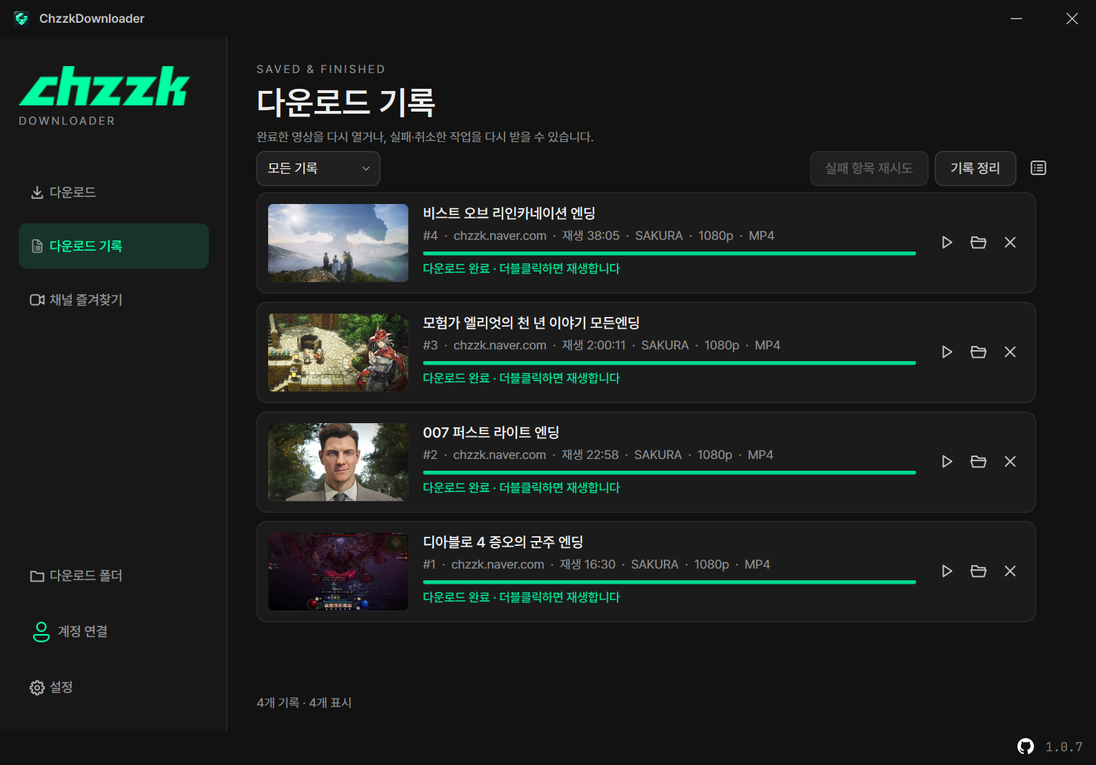
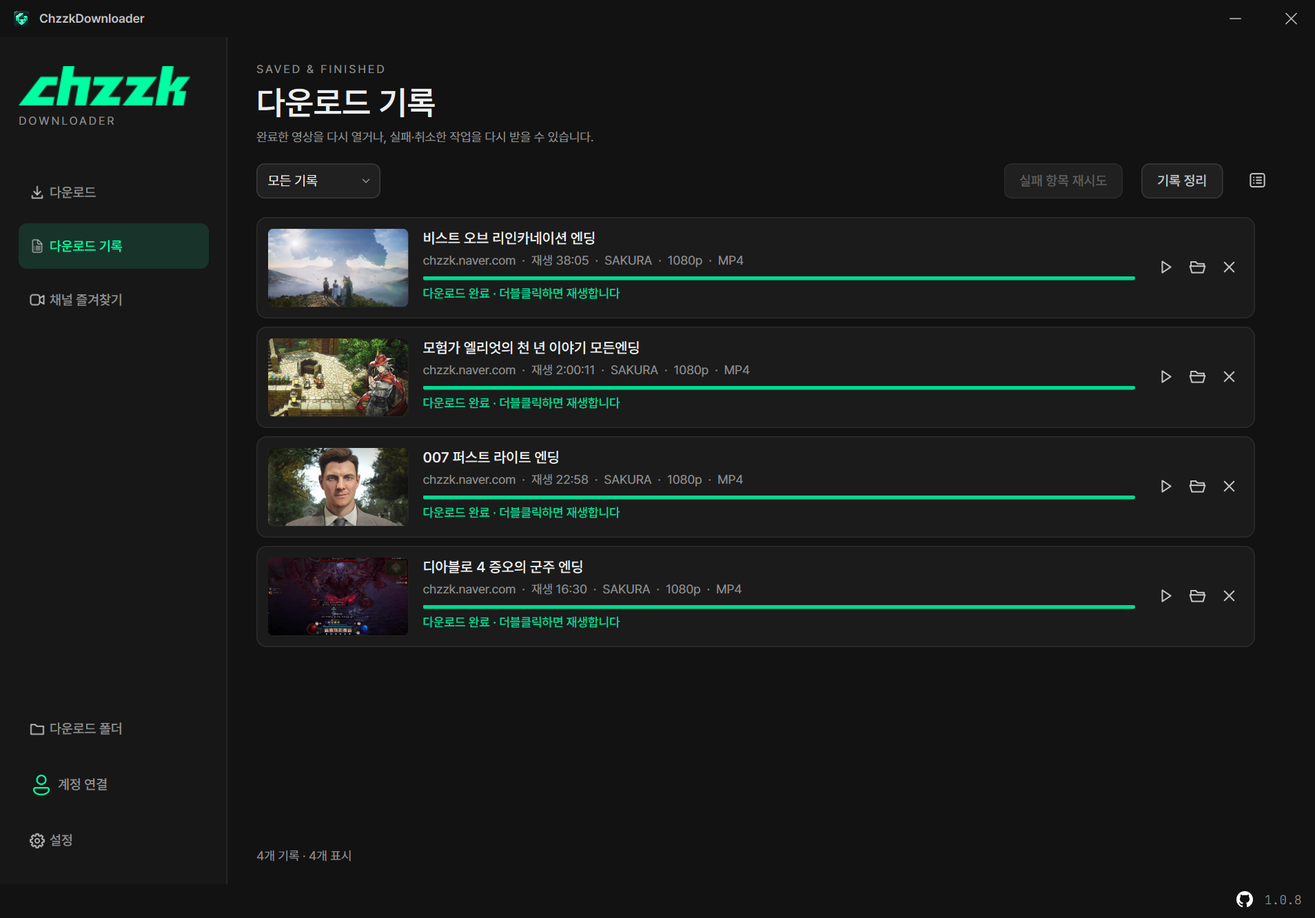
Release 1.0.8 (2026-11-03) 메인 창 확대·새 영상 확인 간격·글로벌 CDN(베타) 및 안정화

diff --git a/docs/index.html b/docs/index.html
@@ -4,7 +4,7 @@
   <meta charset="utf-8">
   <meta name="viewport" content="width=device-width, initial-scale=1">
   <meta name="theme-color" content="#101412">
-  <meta name="description" content="ChzzkDownloader 1.0.7 — 여러 사이트의 영상 다운로드·이어받기, 라이브 녹화, 치지직 다시보기 채팅 저장, 구간 다운로드와 채널 새 영상 알림을 제공하는 Windows 다운로더.">
+  <meta name="description" content="ChzzkDownloader 1.0.8 — 여러 사이트의 영상 다운로드·이어받기, 라이브 녹화, 치지직 다시보기 채팅 저장, 구간 다운로드와 채널 새 영상 알림을 제공하는 Windows 다운로더.">
   <title>ChzzkDownloader — 다시 보고 싶은 순간을, 내 폴더에</title>
   <link rel="icon" href="img/logo.svg" type="image/svg+xml">
   <link rel="stylesheet" href="style.css">
@@ -25,15 +25,15 @@
         <h1>다시 보고 싶은 순간을,<br><em>내 폴더에.</em></h1>
         <p class="lead">긴 다시보기도, 짧은 클립도.<br>링크를 붙여넣으면 나만의 영상 라이브러리가 시작됩니다.</p>
         <div class="hero-actions"><a class="button primary" href="https://github.com/deuxdoom/ChzzkDownloader/releases/latest" data-download><span class="github-icon" aria-hidden="true"></span>다운로드(.zip) <span aria-hidden="true">↓</span></a><a class="button secondary" href="#preview">화면 살펴보기 <span aria-hidden="true">↘</span></a></div>
-        <p class="availability">Windows 데스크톱 · 1.0.7 · 폴더형 포터블 앱</p>
-        <p class="release-note"><code>ChzzkDownloader_v107.zip</code> · 2026-11-02 · 이어받기·라이브 녹화·다시보기 채팅 저장·구간 다운로드, 파일 이름·속도 제한과 채널 새 영상 확인을 추가했습니다. <a href="https://github.com/deuxdoom/ChzzkDownloader/releases/tag/1.0.7">1.0.7 새 소식 ↗</a></p>
+        <p class="availability">Windows 데스크톱 · 1.0.8 · 폴더형 포터블 앱</p>
+        <p class="release-note"><code>ChzzkDownloader_v108.zip</code> · 2026-11-03 · 메인 창을 넓히고 새 영상 확인 간격을 1~24시간으로 정할 수 있게 했으며, 라이브 녹화용 글로벌 CDN(베타) 선택과 취소 오조작 방지를 추가했습니다. <a href="https://github.com/deuxdoom/ChzzkDownloader/releases/tag/1.0.8">1.0.8 새 소식 ↗</a></p>
       </div>
       <div class="hero-art" aria-hidden="true"><div class="orbit orbit-one"></div><div class="orbit orbit-two"></div><img src="img/logo.svg" width="256" height="256" alt=""><span class="art-label">KEEP THE MOMENT.</span></div>
     </section>
 
     <section class="guide wrap" id="start" data-chapter aria-labelledby="guide-title">
       <div class="guide-heading"><p class="eyebrow">THREE STEPS. YOUR LIBRARY.</p><h2 id="guide-title">시작하기</h2></div>
-      <ol class="steps"><li><span class="step-number">1</span><div><h3>프로그램 열기</h3><p><code>ChzzkDownloader_v107.zip</code>을 풀고 폴더 구조를 유지한 채 <code>ChzzkDownloader.exe</code>를 실행합니다. <code>lib</code>·<code>bin</code> 폴더는 EXE와 함께 두세요.</p></div></li><li><span class="step-number">2</span><div><h3>저장 위치와 옵션 고르기</h3><p>사이드바 맨 아래 ‘설정’에서 저장 위치·화질·인코딩·파일 이름·채널별 폴더·속도 제한을 정합니다. 저장 위치는 다음 실행에도 유지됩니다. 필요하면 같은 화면에서 치지직 계정도 연결하세요.</p></div></li><li><span class="step-number">3</span><div><h3>주소 붙여넣고 다운로드</h3><p>영상 주소를 붙여넣고 ‘다운로드’를 누르세요. 여러 영상은 ‘다중 다운로드’ 창에 한 줄씩 넣습니다. 필요하면 ‘받을 내용’에서 영상·채팅만·영상 + 채팅을 고르거나 ‘구간만 받기’로 시작·끝을 정하세요.</p></div></li></ol>
+      <ol class="steps"><li><span class="step-number">1</span><div><h3>프로그램 열기</h3><p><code>ChzzkDownloader_v108.zip</code>을 풀고 폴더 구조를 유지한 채 <code>ChzzkDownloader.exe</code>를 실행합니다. <code>lib</code>·<code>bin</code> 폴더는 EXE와 함께 두세요.</p></div></li><li><span class="step-number">2</span><div><h3>저장 위치와 옵션 고르기</h3><p>사이드바 맨 아래 ‘설정’에서 저장 위치·화질·인코딩·파일 이름·채널별 폴더·속도 제한을 정합니다. 저장 위치는 다음 실행에도 유지됩니다. 필요하면 같은 화면에서 치지직 계정도 연결하세요.</p></div></li><li><span class="step-number">3</span><div><h3>주소 붙여넣고 다운로드</h3><p>영상 주소를 붙여넣고 ‘다운로드’를 누르세요. 여러 영상은 ‘다중 다운로드’ 창에 한 줄씩 넣습니다. 필요하면 ‘받을 내용’에서 영상·채팅만·영상 + 채팅을 고르거나 ‘구간만 받기’로 시작·끝을 정하세요.</p></div></li></ol>
     </section>
 
     <section class="story" id="features" data-chapter aria-label="기능 스크롤 소개">
@@ -50,7 +50,7 @@
         </div>
         <div class="story-art" aria-hidden="true">
           <div class="story-glow"></div>
-          <div class="story-device"><img class="story-image library" src="img/app-input.png" width="1590" height="1110" alt=""><img class="story-image preferences" src="img/app-quality.png" width="1590" height="1110" alt=""><img class="story-image background" src="img/app-history.png" width="1590" height="1110" alt=""></div>
+          <div class="story-device"><img class="story-image library" src="img/app-input.png" width="1908" height="1332" alt=""><img class="story-image preferences" src="img/app-quality.png" width="1908" height="1332" alt=""><img class="story-image background" src="img/app-history.png" width="1908" height="1332" alt=""></div>
           <span class="floating-chip chip-a">MP4 · YOUR LIBRARY</span><span class="floating-chip chip-b">1080p · 60 fps</span><span class="floating-chip chip-c">CPU / NVIDIA NVENC</span>
         </div>
       </div>
@@ -77,32 +77,32 @@
         <article class="feature"><span class="feature-no">15 / PROFILES</span><h3>여러 계정도 프로필로.</h3><p>다른 계정의 쿠키를 가져오면 프로필로 추가합니다. 설정 위의 프로필 사진·이름에서 계정을 전환하고, 팔로잉 채널은 즐겨찾기에 자동으로 추가합니다. 즐겨찾기와 순서는 계정마다 따로 유지합니다.</p><span class="pill">MULTI PROFILES</span></article>
         <article class="feature"><span class="feature-no">16 / CHAT</span><h3>채팅도 함께 보관하기.</h3><p>치지직 다시보기의 채팅을 오프라인 HTML 한 파일로 저장하세요. 닉네임을 누르면 그 사용자의 채팅만 보고, 검색·사용자별 요약에서 구독·후원·가림 상태를 확인할 수 있습니다. 닉네임을 바꿔도 같은 사용자 ID로 모입니다.</p><span class="pill">VOD CHAT · OFFLINE HTML</span></article>
         <article class="feature"><span class="feature-no">17 / SECTIONS</span><h3>긴 영상에서 필요한 구간만.</h3><p>주소를 넣기 전에 ‘구간만 받기’를 켜고 시작·끝을 입력하세요. 끝을 비우면 영상 끝까지 받습니다. 재인코딩 없이 잘라 몇 초 차이가 날 수 있으며, 채널 화면의 일괄 선택에는 적용되지 않습니다.</p><span class="pill">START · END</span></article>
-        <article class="feature"><span class="feature-no">18 / LIVE</span><h3>라이브는 녹화하고, 중지하면 저장.</h3><p>라이브 방송 주소를 넣어 녹화하세요. 경과 시간·녹화 크기·남은 공간으로 녹화 가능한 시간을 표시하고, 중지·연결 끊김·남은 공간 1GB 미만일 때 지금까지의 녹화를 저장합니다.</p><span class="pill">LIVE RECORDING</span></article>
-        <article class="feature"><span class="feature-no">19 / NEW VIDEOS</span><h3>즐겨찾는 채널의 새 소식.</h3><p>설정에서 새 영상 확인을 켜면 30분마다 확인해 배지와 트레이로 알립니다. ‘새 영상 자동 다운로드’를 켠 채널은 이미 받은 영상을 건너뛰고 새 영상만 대기열에 넣습니다. 처음 확인한 기존 영상은 알리지 않습니다.</p><span class="pill">NOTIFY · AUTO DOWNLOAD</span></article>
+        <article class="feature"><span class="feature-no">18 / LIVE</span><h3>라이브는 녹화하고, 중지하면 저장.</h3><p>라이브 방송 주소를 넣어 녹화하세요. 경과 시간·녹화 크기·남은 공간으로 녹화 가능한 시간을 표시하고, 중지·연결 끊김·남은 공간 1GB 미만일 때 지금까지의 녹화를 저장합니다. 일부 구간이 빠지면 설정에서 글로벌 CDN(베타)으로 바꿔 녹화할 수 있습니다.</p><span class="pill">LIVE RECORDING</span></article>
+        <article class="feature"><span class="feature-no">19 / NEW VIDEOS</span><h3>즐겨찾는 채널의 새 소식.</h3><p>설정에서 새 영상 확인을 켜면 정한 간격(1~24시간, 기본 1시간)마다 확인해 배지와 트레이로 알립니다. ‘새 영상 자동 다운로드’를 켠 채널은 이미 받은 영상을 건너뛰고 새 영상만 대기열에 넣습니다. 처음 확인한 기존 영상은 알리지 않습니다.</p><span class="pill">NOTIFY · AUTO DOWNLOAD</span></article>
         <article class="feature"><span class="feature-no">20 / SPACE &amp; ERRORS</span><h3>받기 전에 공간부터.</h3><p>영상 크기를 알 수 있으면 동시에 받는 영상이 쓸 공간까지 계산해 부족할 때 전송 전에 알려 줍니다. 실패하면 원인과 다음 조치를 한국어로 안내하고, 카드의 상태 문구에 마우스를 올리면 전체 원문도 확인할 수 있습니다.</p><span class="pill">SPACE CHECK · ERROR GUIDANCE</span></article>
         <article class="feature"><span class="feature-no">21 / CACHE</span><h3>미리보기 캐시도 가볍게.</h3><p>설정에서 썸네일 캐시 사용량을 확인하고 비울 수 있습니다. 프로그램을 시작하면 기록에 더 이상 없는 영상의 캐시는 자동으로 정리하며, 저장한 영상과 다운로드 기록은 유지합니다.</p><span class="pill">THUMBNAIL CACHE</span></article>
       </div>
     </section>
 
     <section class="preview wrap" id="preview" data-chapter aria-labelledby="preview-title">
-      <div class="preview-top"><div><p class="eyebrow">A CALMER WAY TO DOWNLOAD</p><h2 id="preview-title">필요한 것만, 한눈에.</h2></div><span class="version-tag">ChzzkDownloader 1.0.7</span></div>
-      <div class="screen"><img src="img/app-download.png" width="1590" height="1110" alt="ChzzkDownloader의 다운로드 화면. 왼쪽 사이드바에 다운로드·다운로드 기록·채널 즐겨찾기와 맨 아래 다운로드 폴더·계정 연결·설정, 오른쪽에 주소 입력·다중 다운로드 버튼과 위에서부터 대기·다운로드 중·완료 영상 카드가 보입니다. 완료 카드는 재생할 수 있습니다." fetchpriority="high"></div>
-      <p class="caption">실제 1.0.7 배포 EXE 화면 · 영상 정보는 현재 공개 목록에서 가져왔고, 다운로드·저장 상태는 소개용 예시입니다. 메인 창 오른쪽 아래의 흰색 GitHub 아이콘만 저장소 링크이며, 버전 숫자는 일반 표시입니다.</p>
+      <div class="preview-top"><div><p class="eyebrow">A CALMER WAY TO DOWNLOAD</p><h2 id="preview-title">필요한 것만, 한눈에.</h2></div><span class="version-tag">ChzzkDownloader 1.0.8</span></div>
+      <div class="screen"><img src="img/app-download.png" width="1908" height="1332" alt="ChzzkDownloader의 다운로드 화면. 왼쪽 사이드바에 다운로드·다운로드 기록·채널 즐겨찾기와 맨 아래 다운로드 폴더·계정 연결·설정, 오른쪽에 주소 입력·다중 다운로드 버튼과 위에서부터 대기·다운로드 중·완료 영상 카드가 보입니다. 완료 카드는 재생할 수 있습니다." fetchpriority="high"></div>
+      <p class="caption">실제 1.0.8 배포 EXE 화면 · 영상 정보는 현재 공개 목록에서 가져왔고, 다운로드·저장 상태는 소개용 예시입니다. 메인 창 오른쪽 아래의 흰색 GitHub 아이콘만 저장소 링크이며, 버전 숫자는 일반 표시입니다.</p>
     </section>
 
     <section class="settings wrap" aria-labelledby="section-title">
-      <div class="settings-copy"><p class="eyebrow">VIDEO. CHAT. JUST THE PART YOU NEED.</p><h2 id="section-title">영상도, 채팅도.<br>필요한 방식으로.</h2><p>다운로드 화면의 ‘받을 내용’에서 영상·채팅만·영상 + 채팅을 선택하세요. 치지직 다시보기 채팅은 오프라인 HTML 한 파일로 저장되며 닉네임을 누르면 그 사용자의 채팅만 볼 수 있습니다. 닉네임 옆 ↗는 채널을 열고, 검색창에는 채널 주소나 ID도 넣을 수 있습니다.</p><p>‘구간만 받기’를 켜고 시작·끝을 입력하면 주소 입력·다중 다운로드에 적용됩니다. 한 번 추가하면 체크가 풀리고, 끝을 비우면 영상 끝까지 받습니다. 영상 + 채팅에서는 영상만 잘라 받고 채팅은 전체를 저장합니다.</p><p class="muted">실제 1.0.7 화면 · 작업과 진행 상태는 소개용 예시입니다. 채팅은 치지직 다시보기만 지원하며 라이브·클립·다른 사이트의 채팅은 받을 수 없습니다. 구간은 재인코딩 없이 잘라 몇 초 차이가 날 수 있습니다.</p></div>
-      <div class="settings-screen"><img src="img/app-input.png" width="1590" height="1110" loading="lazy" alt="구간만 받기에서 1:00:00~1:30:00과 받을 내용에서 영상 + 채팅을 선택한 1.0.7 화면."></div>
+      <div class="settings-copy"><p class="eyebrow">VIDEO. CHAT. JUST THE PART YOU NEED.</p><h2 id="section-title">영상도, 채팅도.<br>필요한 방식으로.</h2><p>다운로드 화면의 ‘받을 내용’에서 영상·채팅만·영상 + 채팅을 선택하세요. 치지직 다시보기 채팅은 오프라인 HTML 한 파일로 저장되며 닉네임을 누르면 그 사용자의 채팅만 볼 수 있습니다. 닉네임 옆 ↗는 채널을 열고, 검색창에는 채널 주소나 ID도 넣을 수 있습니다.</p><p>‘구간만 받기’를 켜고 시작·끝을 입력하면 주소 입력·다중 다운로드에 적용됩니다. 한 번 추가하면 체크가 풀리고, 끝을 비우면 영상 끝까지 받습니다. 영상 + 채팅에서는 영상만 잘라 받고 채팅은 전체를 저장합니다.</p><p class="muted">실제 1.0.8 화면 · 작업과 진행 상태는 소개용 예시입니다. 채팅은 치지직 다시보기만 지원하며 라이브·클립·다른 사이트의 채팅은 받을 수 없습니다. 구간은 재인코딩 없이 잘라 몇 초 차이가 날 수 있습니다.</p></div>
+      <div class="settings-screen"><img src="img/app-input.png" width="1908" height="1332" loading="lazy" alt="구간만 받기에서 1:00:00~1:30:00과 받을 내용에서 영상 + 채팅을 선택한 1.0.8 화면."></div>
     </section>
 
     <section class="settings wrap" aria-labelledby="live-title">
-      <div class="settings-copy"><p class="eyebrow">RECORD NOW. KEEP IT LATER.</p><h2 id="live-title">라이브를 녹화하고,<br>중지하면 저장.</h2><p>방송 주소를 넣으면 그 시점부터 녹화합니다. 동시 다운로드 수에 포함되지 않아 다른 영상을 함께 받을 수 있고, 카드에 경과 시간·녹화 크기와 남은 공간으로 더 녹화할 수 있는 시간을 표시합니다. 중지하거나 연결이 끊기면 지금까지 녹화한 부분을 MP4로 저장합니다.</p><p class="muted">실제 1.0.7 화면 · 녹화 상태·용량·남은 시간은 소개용 예시입니다. 1080p60 기준 시간당 약 3.8GB, 10시간 약 38GB가 필요하며 화질에 따라 달라집니다. MP4 정리에는 녹화 크기만큼 여유 공간이 더 필요합니다. 남은 공간이 1GB 아래로 줄면 멈추고 저장하며, 정리할 공간이 없거나 MP4 변환에 실패하면 TS로 보존합니다. 재실행 복원·이어받기는 하지 않습니다.</p></div>
-      <div class="settings-screen"><img src="img/app-live.png" width="1590" height="1110" loading="lazy" alt="라이브 녹화 중 경과 시간·녹화 용량·남은 공간으로 더 녹화할 수 있는 시간을 보여 주는 예시."></div>
+      <div class="settings-copy"><p class="eyebrow">RECORD NOW. KEEP IT LATER.</p><h2 id="live-title">라이브를 녹화하고,<br>중지하면 저장.</h2><p>방송 주소를 넣으면 그 시점부터 녹화합니다. 동시 다운로드 수에 포함되지 않아 다른 영상을 함께 받을 수 있고, 카드에 경과 시간·녹화 크기와 남은 공간으로 더 녹화할 수 있는 시간을 표시합니다. 중지하거나 연결이 끊기면 지금까지 녹화한 부분을 MP4로 저장합니다.</p><p class="muted">실제 1.0.8 화면 · 녹화 상태·용량·남은 시간은 소개용 예시입니다. 1080p60 기준 시간당 약 3.8GB, 10시간 약 38GB가 필요하며 화질에 따라 달라집니다. MP4 정리에는 녹화 크기만큼 여유 공간이 더 필요합니다. 남은 공간이 1GB 아래로 줄면 멈추고 저장하며, 정리할 공간이 없거나 MP4 변환에 실패하면 TS로 보존합니다. 재실행 복원·이어받기는 하지 않습니다.</p></div>
+      <div class="settings-screen"><img src="img/app-live.png" width="1908" height="1332" loading="lazy" alt="라이브 녹화 중 경과 시간·녹화 용량·남은 공간으로 더 녹화할 수 있는 시간을 보여 주는 예시."></div>
     </section>
 
     <section class="settings wrap" aria-labelledby="watch-title">
-      <div class="settings-copy"><p class="eyebrow">NEW VIDEOS. LESS CHECKING.</p><h2 id="watch-title">새 영상은 알려 주고,<br>캐시는 가볍게.</h2><p>‘설정 → 프로그램 동작 → 즐겨찾기 채널의 새 영상을 30분마다 확인’을 켜면 새 영상 개수와 트레이 알림을 받을 수 있습니다. 자동으로 받을 채널은 채널 화면의 ‘새 영상 자동 다운로드’도 켜세요. 이미 받은 영상은 건너뛰고 새 영상만 대기열에 추가합니다.</p><p>같은 설정 카드에서 썸네일 캐시 사용량을 확인하거나 ‘캐시 비우기’를 누를 수 있습니다. 기록과 영상 파일은 유지되며, 시작할 때 기록에 더 이상 없는 영상의 캐시도 자동 정리합니다.</p><p class="muted">새 영상 확인은 기본 꺼짐입니다. 처음 확인한 기존 영상은 알리거나 자동으로 받지 않습니다. 설정을 켜면 시작 1분 뒤부터 확인하고 이후 30분마다 확인합니다.</p></div>
-      <div class="settings-screen"><img src="img/app-settings-behavior.png" width="1590" height="1110" loading="lazy" alt="즐겨찾기 채널 새 영상 확인과 썸네일 캐시 사용량·캐시 비우기, 프로그램·도구 업데이트 설정."></div>
+      <div class="settings-copy"><p class="eyebrow">NEW VIDEOS. LESS CHECKING.</p><h2 id="watch-title">새 영상은 알려 주고,<br>캐시는 가볍게.</h2><p>‘설정 → 프로그램 동작 → 즐겨찾기 채널의 새 영상 확인’을 켜고 간격을 1~24시간으로 입력하면 새 영상 개수와 트레이 알림을 받을 수 있습니다. 자동으로 받을 채널은 채널 화면의 ‘새 영상 자동 다운로드’도 켜세요. 이미 받은 영상은 건너뛰고 새 영상만 대기열에 추가합니다.</p><p>같은 설정 카드에서 썸네일 캐시 사용량을 확인하거나 ‘캐시 비우기’를 누를 수 있습니다. 기록과 영상 파일은 유지되며, 시작할 때 기록에 더 이상 없는 영상의 캐시도 자동 정리합니다.</p><p class="muted">새 영상 확인은 기본 꺼짐입니다. 처음 확인한 기존 영상은 알리거나 자동으로 받지 않습니다. 설정을 켜면 시작 1분 뒤부터 확인하고 이후 입력한 간격(기본 1시간)마다 확인합니다.</p></div>
+      <div class="settings-screen"><img src="img/app-settings-behavior.png" width="1908" height="1332" loading="lazy" alt="즐겨찾기 채널 새 영상 확인과 썸네일 캐시 사용량·캐시 비우기, 프로그램·도구 업데이트 설정."></div>
     </section>
 
     <section class="settings wrap" id="multi-download" aria-labelledby="multi-title">
@@ -111,37 +111,37 @@
     </section>
 
     <section class="settings wrap" id="settings" aria-labelledby="settings-title">
-      <div class="settings-copy"><p class="eyebrow">SET IT ONCE.</p><h2 id="settings-title">취향에 맞춰 두면,<br>그다음은 붙여넣기.</h2><p>사이드바 맨 아래의 ‘설정’에서 저장·다운로드, 치지직 계정, 영상 변환, 프로그램 동작, 업데이트 카드에서 필요한 항목을 정하세요. 저장 위치를 바꾸면 다음 실행에도 유지됩니다. 첫 실행에 FFmpeg·ffprobe와 yt-dlp nightly를 받고 시작할 때마다 확인해 없거나 손상된 도구를 자동 준비하며, ‘도구 업데이트’는 최신 도구를 다시 받지 않고 필요한 도구만 교체합니다. 창 크기는 해상도와 Windows 배율에 맞춰 자동으로 정해지고, 작은 화면에서는 설정 내용을 스크롤로 볼 수 있습니다.</p><p>파일 이름에 게시 날짜·채널을 넣거나 채널별 폴더에 저장하고, 영상 한 개당 속도 상한을 정할 수 있습니다. 아래쪽 ‘프로그램 동작’에는 30분마다 새 영상 확인과 썸네일 캐시 비우기가 있습니다.</p><p class="muted">기존 yt-dlp 지원 사이트도 함께 사용할 수 있습니다. 사이트의 변경이나 계정 접근 조건에 따라 다운로드 가능 여부가 달라질 수 있습니다.</p></div>
-      <div class="settings-screen"><img src="img/app-settings.png" width="1590" height="1110" loading="lazy" alt="1.0.7 설정 화면. 저장 위치·화질·파일 이름 규칙·채널별 폴더·동시 영상과 조각 수·속도 제한과 치지직 계정 카드가 보입니다."></div>
+      <div class="settings-copy"><p class="eyebrow">SET IT ONCE.</p><h2 id="settings-title">취향에 맞춰 두면,<br>그다음은 붙여넣기.</h2><p>사이드바 맨 아래의 ‘설정’에서 저장·다운로드, 치지직 계정, 영상 변환, 프로그램 동작, 업데이트 카드에서 필요한 항목을 정하세요. 저장 위치를 바꾸면 다음 실행에도 유지됩니다. 첫 실행에 FFmpeg·ffprobe와 yt-dlp nightly를 받고 시작할 때마다 확인해 없거나 손상된 도구를 자동 준비하며, ‘도구 업데이트’는 최신 도구를 다시 받지 않고 필요한 도구만 교체합니다. 창 크기는 해상도와 Windows 배율에 맞춰 자동으로 정해지고, 작은 화면에서는 설정 내용을 스크롤로 볼 수 있습니다.</p><p>파일 이름에 게시 날짜·채널을 넣거나 채널별 폴더에 저장하고, 영상 한 개당 속도 상한을 정할 수 있습니다. 라이브 녹화에서 일부 구간이 빠지면 ‘치지직 CDN’을 글로벌 CDN(Akamai, 베타)으로 바꿔 보세요. 아래쪽 ‘프로그램 동작’에는 새 영상 확인 간격과 썸네일 캐시 비우기가 있습니다.</p><p class="muted">기존 yt-dlp 지원 사이트도 함께 사용할 수 있습니다. 사이트의 변경이나 계정 접근 조건에 따라 다운로드 가능 여부가 달라질 수 있습니다.</p></div>
+      <div class="settings-screen"><img src="img/app-settings.png" width="1908" height="1332" loading="lazy" alt="1.0.8 설정 화면. 저장 위치·화질·파일 이름 규칙·채널별 폴더·동시 영상과 조각 수·속도 제한·치지직 CDN(베타)과 치지직 계정 카드가 보입니다."></div>
     </section>
 
     <section class="channels wrap" id="channels" data-chapter aria-labelledby="channels-title">
       <div class="channels-head"><div><p class="eyebrow">YOUR CHANNELS. YOUR PICKS.</p><h2 id="channels-title">좋아하는 채널은,<br>카드 한 장으로.</h2></div><p>‘채널 즐겨찾기’에서 채널명이나 주소로 찾아 ‘추가’를 누르세요. 저장한 카드를 누르면 그 채널의 VOD가 썸네일·제목·날짜와 함께 펼쳐지고, 원하는 영상만 골라 바로 받을 수 있습니다. 치지직 계정을 연결하면 팔로잉 채널이 자동으로 추가되며, 카드는 드래그로 순서를 바꿀 수 있습니다.</p></div>
       <div class="channel-shots">
-        <figure><div class="settings-screen"><img src="img/app-favorites.png" width="1590" height="1110" loading="lazy" alt="채널 즐겨찾기 화면. 위쪽에 채널명·주소 검색과 오른쪽에 ‘추가’ 버튼이 있는 결과 카드, 아래쪽에 아바타와 채널명이 있는 저장한 채널 카드 여섯 개가 있습니다."></div><figcaption>검색하고, 추가하고, 카드로 모아 두기</figcaption></figure>
-        <figure><div class="settings-screen"><img src="img/app-channel.png" width="1590" height="1110" loading="lazy" alt="1.0.7 채널 화면. 보기·정렬·새 영상 자동 다운로드, 받음·채팅 받음·영상과 채팅 받음 배지와 선택한 영상 채팅 저장 버튼이 보입니다."></div><figcaption>영상·채팅 저장 여부를 확인하고 필요한 항목만 선택</figcaption></figure>
+        <figure><div class="settings-screen"><img src="img/app-favorites.png" width="1908" height="1332" loading="lazy" alt="채널 즐겨찾기 화면. 위쪽에 채널명·주소 검색과 오른쪽에 ‘추가’ 버튼이 있는 결과 카드, 아래쪽에 아바타와 채널명이 있는 저장한 채널 카드 여섯 개가 있습니다."></div><figcaption>검색하고, 추가하고, 카드로 모아 두기</figcaption></figure>
+        <figure><div class="settings-screen"><img src="img/app-channel.png" width="1908" height="1332" loading="lazy" alt="1.0.8 채널 화면. 보기·정렬·새 영상 자동 다운로드, 받음·채팅 받음·영상과 채팅 받음 배지와 선택한 영상 채팅 저장 버튼이 보입니다."></div><figcaption>영상·채팅 저장 여부를 확인하고 필요한 항목만 선택</figcaption></figure>
       </div>
-      <p>채널 화면에서 전체 영상·다시보기·업로드·클립과 최신순·인기순을 고를 수 있습니다. ‘받지 않은 영상만 선택’은 채팅만 저장한 영상도 선택하며, ‘선택한 영상 채팅 저장’은 클립을 제외한 다시보기에 사용합니다.</p><p class="caption">실제 1.0.7 앱 화면 · 채널·영상 정보는 현재 공개 목록의 일부이며, 새 영상 개수와 영상·채팅 저장 배지는 소개용 예시입니다.</p>
+      <p>채널 화면에서 전체 영상·다시보기·업로드·클립과 최신순·인기순을 고를 수 있습니다. ‘받지 않은 영상만 선택’은 채팅만 저장한 영상도 선택하며, ‘선택한 영상 채팅 저장’은 클립을 제외한 다시보기에 사용합니다.</p><p class="caption">실제 1.0.8 앱 화면 · 채널·영상 정보는 현재 공개 목록의 일부이며, 새 영상 개수와 영상·채팅 저장 배지는 소개용 예시입니다.</p>
     </section>
 
     <section class="settings wrap" id="account" data-chapter aria-labelledby="account-title">
-      <div class="settings-copy"><p class="eyebrow">YOUR ACCOUNT. YOUR LIST.</p><h2 id="account-title">계정을 연결하면,<br>팔로잉도 그대로.</h2><p>평소 브라우저에서 치지직에 로그인한 뒤 내보낸 cookies.txt를 ‘설정 → 치지직 계정 → 쿠키 파일 가져오기’에서 연결하세요. 아이디·비밀번호 입력 없이 로그인을 확인하고, 팔로잉 채널을 즐겨찾기에 자동으로 추가합니다. 여러 계정을 저장하면 설정 위의 프로필 사진·이름에서 전환할 수 있고, 즐겨찾기와 순서는 계정마다 따로 유지합니다.</p><p class="muted">실제 1.0.7 화면 · 계정 이름과 사진은 소개용 예시입니다. 19세 영상은 본인·성인 인증된 계정의 시청 권한이 있어야 받을 수 있습니다.</p></div>
-      <div class="settings-screen"><img src="img/app-account.png" width="1590" height="1110" loading="lazy" alt="설정 위 프로필 버튼에서 연 계정 메뉴. ‘저장된 계정’ 제목 아래에 현재 표시가 붙은 예시 계정과 두 번째 예시 계정, 치지직 채널 열기·로그아웃·새 계정 추가 항목이 있고, 오른쪽에 치지직 계정 설정 카드가 보입니다."></div>
+      <div class="settings-copy"><p class="eyebrow">YOUR ACCOUNT. YOUR LIST.</p><h2 id="account-title">계정을 연결하면,<br>팔로잉도 그대로.</h2><p>평소 브라우저에서 치지직에 로그인한 뒤 내보낸 cookies.txt를 ‘설정 → 치지직 계정 → 쿠키 파일 가져오기’에서 연결하세요. 아이디·비밀번호 입력 없이 로그인을 확인하고, 팔로잉 채널을 즐겨찾기에 자동으로 추가합니다. 여러 계정을 저장하면 설정 위의 프로필 사진·이름에서 전환할 수 있고, 즐겨찾기와 순서는 계정마다 따로 유지합니다.</p><p class="muted">실제 1.0.8 화면 · 계정 이름과 사진은 소개용 예시입니다. 19세 영상은 본인·성인 인증된 계정의 시청 권한이 있어야 받을 수 있습니다.</p></div>
+      <div class="settings-screen"><img src="img/app-account.png" width="1908" height="1332" loading="lazy" alt="설정 위 프로필 버튼에서 연 계정 메뉴. ‘저장된 계정’ 제목 아래에 현재 표시가 붙은 예시 계정과 두 번째 예시 계정, 치지직 채널 열기·로그아웃·새 계정 추가 항목이 있고, 오른쪽에 치지직 계정 설정 카드가 보입니다."></div>
     </section>
 
     <section class="settings wrap" id="cookie" aria-labelledby="cookie-title">
-      <div class="settings-copy"><p class="eyebrow">STAYS ON YOUR PC.</p><h2 id="cookie-title">로그인 쿠키는,<br>내 PC에만.</h2><p>연결 창에서 저장에 동의한 뒤 <code>chzzk.naver.com_cookies.txt</code>를 선택하고 ‘가져오고 연결’을 누르세요. 파일에서 NID_AUT·NID_SES 두 쿠키만 골라 Windows 사용자 계정에 묶어 암호화 저장하며, 개발자나 별도 수집 서버로 전송하지 않습니다. 인증 쿠키는 네이버·치지직 인증과 영상 조회에 전달됩니다.</p><p class="muted">실제 1.0.7 화면 · 가져온 쿠키 파일은 암호화되지 않으며 프로그램이 수정·삭제하지 않으므로, 연결 후 필요 없으면 직접 삭제하세요. 쿠키가 만료되면 다시 가져와야 하며 영구 로그인을 보장하지 않습니다.</p></div>
+      <div class="settings-copy"><p class="eyebrow">STAYS ON YOUR PC.</p><h2 id="cookie-title">로그인 쿠키는,<br>내 PC에만.</h2><p>연결 창에서 저장에 동의한 뒤 <code>chzzk.naver.com_cookies.txt</code>를 선택하고 ‘가져오고 연결’을 누르세요. 파일에서 NID_AUT·NID_SES 두 쿠키만 골라 Windows 사용자 계정에 묶어 암호화 저장하며, 개발자나 별도 수집 서버로 전송하지 않습니다. 인증 쿠키는 네이버·치지직 인증과 영상 조회에 전달됩니다.</p><p class="muted">실제 1.0.8 화면 · 가져온 쿠키 파일은 암호화되지 않으며 프로그램이 수정·삭제하지 않으므로, 연결 후 필요 없으면 직접 삭제하세요. 쿠키가 만료되면 다시 가져와야 하며 영구 로그인을 보장하지 않습니다.</p></div>
       <div class="settings-screen cookie-screen"><img src="img/app-cookie.png" width="840" height="1170" loading="lazy" alt="브라우저 쿠키로 치지직 계정 연결 창. 내 PC에만 암호화 저장한다는 안내, 확장 프로그램의 첫 번째 Export 버튼을 가리키는 안내 이미지, 저장 동의 체크와 파일 선택·가져오고 연결 버튼이 보입니다."></div>
     </section>
 
     <section class="settings wrap" id="tools" aria-labelledby="tools-title">
-      <div class="settings-copy"><p class="eyebrow">READY AT A GLANCE.</p><h2 id="tools-title">도구 준비도,<br>하단에서 한눈에.</h2><p>어느 탭에 있든 하단 상태바에서 도구 확인·다운로드·설치 상황을 확인할 수 있습니다. 다운로드 진행률은 민트색으로 표시하며, 완료 안내는 5초 뒤 서서히 사라집니다.</p><p class="muted">실제 1.0.7 화면 · 도구 다운로드 55%는 소개용 예시입니다.</p></div>
-      <div class="settings-screen"><img src="img/app-tools.png" width="1590" height="1110" loading="lazy" alt="모든 탭에 표시되는 메인 창 하단 도구 다운로드 상태와 55% 진행률, 오른쪽 아래 GitHub 아이콘과 버전 1.0.7 예시."></div>
+      <div class="settings-copy"><p class="eyebrow">READY AT A GLANCE.</p><h2 id="tools-title">도구 준비도,<br>하단에서 한눈에.</h2><p>어느 탭에 있든 하단 상태바에서 도구 확인·다운로드·설치 상황을 확인할 수 있습니다. 다운로드 진행률은 민트색으로 표시하며, 완료 안내는 5초 뒤 서서히 사라집니다.</p><p class="muted">실제 1.0.8 화면 · 도구 다운로드 55%는 소개용 예시입니다.</p></div>
+      <div class="settings-screen"><img src="img/app-tools.png" width="1908" height="1332" loading="lazy" alt="모든 탭에 표시되는 메인 창 하단 도구 다운로드 상태와 55% 진행률, 오른쪽 아래 GitHub 아이콘과 버전 1.0.8 예시."></div>
     </section>
 
     <section class="settings wrap" id="age-rating" aria-labelledby="age-title">
-      <div class="settings-copy"><p class="eyebrow">KNOW BEFORE YOU PICK.</p><h2 id="age-title">연령 제한은,<br>썸네일에서 확인.</h2><p>연령 확인이 필요한 치지직 영상은 썸네일 오른쪽 위의 빨간색 19세 배지로 구분합니다. 본인·성인 인증된 치지직 계정을 연결하면 그 계정의 시청 권한으로 받을 수 있습니다. 공개 영상과 지역 제한만 있는 영상에는 이 배지를 표시하지 않습니다.</p><p class="muted">실제 1.0.7 화면 · 영상과 제한 상태는 소개용 예시입니다. 인증·시청 권한이 없는 계정으로는 받을 수 없습니다.</p></div>
-      <div class="settings-screen"><img src="img/app-channel-age.png" width="1590" height="1110" loading="lazy" alt="연령 제한 표시 예시 채널의 썸네일 오른쪽 위에 표시한 빨간색 19세 배지와 배지가 없는 공개 영상 카드."></div>
+      <div class="settings-copy"><p class="eyebrow">KNOW BEFORE YOU PICK.</p><h2 id="age-title">연령 제한은,<br>썸네일에서 확인.</h2><p>연령 확인이 필요한 치지직 영상은 썸네일 오른쪽 위의 빨간색 19세 배지로 구분합니다. 본인·성인 인증된 치지직 계정을 연결하면 그 계정의 시청 권한으로 받을 수 있습니다. 공개 영상과 지역 제한만 있는 영상에는 이 배지를 표시하지 않습니다.</p><p class="muted">실제 1.0.8 화면 · 영상과 제한 상태는 소개용 예시입니다. 인증·시청 권한이 없는 계정으로는 받을 수 없습니다.</p></div>
+      <div class="settings-screen"><img src="img/app-channel-age.png" width="1908" height="1332" loading="lazy" alt="연령 제한 표시 예시 채널의 썸네일 오른쪽 위에 표시한 빨간색 19세 배지와 배지가 없는 공개 영상 카드."></div>
     </section>
 
     <section class="settings updates wrap" id="updates" aria-labelledby="updates-title">

diff --git a/README.md b/README.md
@@ -41,12 +41,8 @@
 
 ## 📌 소개
 
-치지직 VOD·클립, YouTube, 인스타그램, TVer 등 여러 사이트의 영상 주소를 분석해 MP4로 저장하는 Windows 프로그램입니다.
-주소를 붙여넣거나, 즐겨찾는 치지직 채널에서 영상을 골라 받습니다.
-평소 브라우저에서 내보낸 쿠키로 치지직 계정을 연결하면 팔로잉 채널을 즐겨찾기로 가져오고, 시청 권한이 있는 19세 영상도 받을 수 있습니다.
-TVer는 일본 VPN에 연결한 상태에서 다운로드해야 합니다.
-
-**1.0.7 (2026-11-02)**에 중단된 다운로드 이어받기, 라이브 방송 녹화, 치지직 다시보기 채팅 저장, 구간 다운로드를 추가했습니다. 파일 이름·채널별 폴더·속도 제한을 설정하고, 즐겨찾기 채널의 새 영상 알림과 자동 다운로드를 사용할 수 있습니다. 채널 화면에는 보기·정렬과 영상·채팅 저장 배지를 추가하고, 중복 확인·저장 공간 확인·실패 안내·썸네일 캐시 관리도 개선했습니다. 자세한 내용은 [1.0.7 변경 기록](CHANGELOG.md#107---2026-11-02)에서 확인하세요.
+치지직·YouTube·인스타그램·TVer 등 여러 사이트의 영상 주소를 분석해 MP4로 저장하는 Windows용 범용 다운로더입니다.
+주소를 붙여넣어 받거나, 즐겨찾는 치지직 채널에서 영상을 골라 받을 수 있습니다. 라이브 녹화와 치지직 다시보기 채팅 저장도 지원합니다.
 
 <a id="requirements"></a>
 
@@ -55,7 +51,7 @@ TVer는 일본 VPN에 연결한 상태에서 다운로드해야 합니다.
 ## 💻 시스템 요구 사항
 
 - Windows 10 / 11 (x64)
-- 인터넷 연결
+- 인터넷 연결 — 필요한 영상 도구는 첫 실행에 자동으로 준비합니다.
 
 <a id="features"></a>
 
@@ -63,66 +59,52 @@ TVer는 일본 VPN에 연결한 상태에서 다운로드해야 합니다.
 
 ## ✨ 주요 기능
 
-- **다운로드**: 주소 붙여넣기·끌어놓기, ‘다중 다운로드’ 창에서 여러 주소를 한 줄씩 추가. 동시 영상 최대 4개·영상당 조각 최대 16개
-- **저장 설정**: 저장 위치·화질·인코딩, 파일 이름 규칙(제목 / 날짜 + 제목 / 채널 + 제목 / 날짜 + 채널 + 제목), 채널별 폴더를 선택하고 다음 실행에도 유지. 날짜는 영상 게시일 기준
-- **속도 제한**: 영상 한 개당 1·2·5·10·20·50 MB/s 또는 제한 없음을 선택. 여러 영상을 받으면 합계는 동시 영상 수만큼 늘어날 수 있음
-- **이어받기·자동 재시도**: 취소·실패한 영상의 받은 부분을 보관하고 재시도·같은 주소 추가·재실행 후 대기열 재개 시 이어받기. 일시적인 연결 오류는 두 번까지 자동 재시도
-- **라이브 녹화**: 라이브 주소를 넣어 녹화하고 중지·연결 끊김 시 지금까지 받은 부분을 MP4로 저장. 녹화 크기·경과 시간·남은 공간으로 녹화 가능한 시간 표시
-- **구간만 받기**: 주소를 추가하기 전에 시작·끝 시각을 지정해 필요한 구간만 저장. 끝을 비우면 영상 끝까지, 재인코딩 없이 잘라 몇 초 차이가 날 수 있음
-- **치지직 다시보기 채팅 저장**: ‘받을 내용’에서 채팅만 또는 영상 + 채팅을 선택해 오프라인 HTML로 저장. 검색·사용자별 채팅·구독·후원·가림 상태를 확인하고, 닉네임을 바꿔도 같은 사용자 ID로 모아 보기
-- **완료 항목**: 이번 실행에서 완료한 영상은 다운로드 목록에서 재생하거나 더블클릭. ‘완료 항목 정리’로 숨겨도 기록과 영상은 유지
-- **대기 목록 복원·삭제**: 취소·대기·종료 중단 작업은 다시 실행하면 대기 상태로 복원. ‘대기열 계속’으로 시작하며, 필요 없는 대기 항목은 다운로드 목록에서 우클릭 → ‘목록에서 삭제’로 복원 없이 제거
-- **중복 다운로드 확인**: 주소 형태가 달라도 같은 영상이면 다시 다운로드할지 확인. 기록 화면의 최근 500개 밖에 있는 영상도 기억하며, 대기·진행 중인 영상은 중복 추가하지 않음
-- **채널 즐겨찾기**: 채널명이나 주소로 검색해 저장하고, 카드를 드래그해 순서 변경. 전체 영상·다시보기·업로드·클립과 최신순·인기순을 골라 영상 선택. 연령 제한은 19세 배지로 구분
-- **영상·채팅 저장 배지**: 채널 카드에 ‘받음’·‘채팅 받음’·‘영상·채팅 받음’을 구분해 표시. ‘받지 않은 영상만 선택’과 ‘선택한 영상 채팅 저장’ 제공
-- **즐겨찾기 새 영상 확인**: 설정에서 켜면 30분마다 확인해 ‘새 영상 N’ 배지와 트레이 알림 표시. 채널별 ‘새 영상 자동 다운로드’를 켜면 이미 받은 영상은 건너뛰고 새 영상만 대기열에 추가
-- **치지직 계정 연결**: 평소 브라우저에서 내보낸 cookies.txt로 연결. 아이디·비밀번호 입력 없이 로그인 쿠키만 Windows 암호화로 보관하며 다시 실행해도 유지. 본인·성인 인증된 계정의 시청 권한으로 19세 영상 다운로드
-- **팔로잉 자동 추가**: 저장된 계정의 팔로잉 채널을 로그인·앱 시작 시 즐겨찾기에 자동 추가. 기존 채널과 순서를 유지하고 중복 없이 병합하며, 설정에서 다시 가져오기 가능
-- **계정 프로필 전환**: 여러 계정의 쿠키를 저장하고 설정 위의 프로필 사진·계정 이름에서 전환. 계정마다 즐겨찾기와 순서를 따로 유지
-- **다운로드 기록**: 완료·실패·취소 작업을 따로 모아 다시 재생·재시도. 썸네일은 다시 열어도 유지
-- **실패 안내·저장 공간 확인**: 실패 원인과 다음 조치를 한국어로 안내하고 원문도 보관. 크기를 알 수 있는 영상은 다운로드 전 필요한 공간을 확인하고, 부족하면 전송 전에 안내
-- **썸네일 캐시 관리**: 설정에서 캐시 사용량 확인·비우기. 시작할 때 기록에 더 이상 없는 영상의 캐시 자동 정리
-- **작업 로그**: 목록 상단의 로그 버튼으로 열고 닫기. 카드 선택이나 로그 필터로 원하는 작업만 확인하며 로그를 열어도 입력창·버튼·카드가 좌우로 밀리지 않음
-- **MP4 저장·변환**: 원본 유지가 기본. 필요하면 CPU 또는 NVIDIA NVENC로 H.264(AVC)·H.265(HEVC) 변환. 변환이 실패하거나 취소돼도 원본 보존. 끊긴 방송의 이어진 녹화본처럼 시작 시각이 늦은 영상은 화질 변환 없이 0초부터 시작하게 저장
-- **트레이 실행**: 창을 닫아도 트레이에서 다운로드 계속, 대기열 일시정지·재개, 완료 알림
-- **자동 업데이트**: GitHub 정식 릴리스의 추가·변경·수정 내역을 확인한 뒤 ‘지금 업데이트’·‘나중에’를 선택. 설치 시 SHA-256 검증 후 프로그램만 교체. 영상·기록·설정은 그대로. 설정에서 직접 확인했을 때 최신이면 안내창 표시
-- **도구 업데이트**: 첫 실행에 FFmpeg·ffprobe와 yt-dlp nightly를 받고, 시작할 때마다 확인해 없거나 손상되었으면 자동으로 다시 준비. 모든 탭의 하단에서 상태·진행률을 확인하고, 완료 안내는 5초 뒤 서서히 사라짐. 설정의 ‘도구 업데이트’는 최신 도구를 다시 받지 않고 바뀌었거나 손상된 도구만 교체
-- **화면과 버전 표시**: 화면 해상도와 Windows 배율에 맞춘 고정 창. 진행률·속도·버전에는 JetBrains Mono를 적용하고, 메인 창 오른쪽 아래의 흰색 GitHub 아이콘을 누르면 저장소로 이동
+- **여러 영상 다운로드**: 주소 붙여넣기·끌어놓기로 추가하고, 여러 주소를 대기열에 넣어 동시에 받을 수 있습니다.
+- **구간 저장·라이브 녹화**: 긴 영상에서 필요한 시간대만 받거나, 라이브 방송을 녹화하다 중지한 시점까지 저장할 수 있습니다.
+- **치지직 채널 관리**: 즐겨찾기 채널의 다시보기·업로드·클립을 골라 받습니다. 받은 영상 표시, 새 영상 알림과 채널별 자동 다운로드를 제공합니다.
+- **치지직 채팅 보관**: 다시보기 채팅을 오프라인 HTML로 저장합니다. 검색과 사용자별 보기를 제공하며, 닉네임이 바뀌어도 같은 계정의 채팅을 모아 볼 수 있습니다.
+- **이어받기·다운로드 기록**: 중단된 영상은 받은 부분부터 다시 받고, 완료·실패·취소 작업은 기록에서 확인합니다. 이미 받은 영상은 중복 여부를 알려 줍니다.
+- **저장·변환 설정**: 저장 위치·파일 이름·채널별 폴더·화질·속도 제한을 정합니다. 원본 유지가 기본이며, 필요하면 CPU 또는 NVIDIA NVENC로 MP4 영상을 변환할 수 있습니다.
+- **치지직 계정 연결**: 브라우저에서 내보낸 쿠키로 계정을 연결해 팔로잉 채널을 가져오고, 여러 계정의 즐겨찾기를 따로 관리합니다. 아이디·비밀번호 입력은 필요 없습니다.
+
+프로그램·영상 도구의 업데이트는 **설정**에서 관리할 수 있습니다. 버전별 변경 내용은 [변경 기록](CHANGELOG.md)을 확인하세요.
 
 <a id="usage"></a>
 
 <a id="-사용-방법"></a>
 
-## 🚀 다운로드 및 실행
+## 🚀 빠른 시작
 
-1. 릴리스의 `ChzzkDownloader_v107.zip` 파일을 내려받아 압축을 풀고 `ChzzkDownloader.exe`를 실행합니다.
-2. 첫 실행에는 인터넷으로 필요한 영상 도구(FFmpeg·ffprobe, yt-dlp nightly)를 자동으로 받습니다. **창 하단의 상태와 진행 표시**로 준비 상황을 확인하세요. 준비가 끝나면 사이드바 맨 아래 **설정**에서 저장·다운로드, 치지직 계정, 영상 변환, 프로그램 동작, 업데이트 항목을 정합니다.
-3. 어떤 사이트의 영상 주소든 붙여넣고 **다운로드**를 누릅니다. 여러 영상을 한꺼번에 추가하고 싶을 경우 **다중 다운로드** 창에 한 줄씩 넣고 **다운로드 (개수)**를 누릅니다. 입력 순서대로 목록에 추가되며 설정한 동시 영상 수만큼 시작합니다.
-4. 채널 단위로 고르려면 **채널 즐겨찾기**에서 채널을 검색해 저장한 뒤 카드를 누릅니다. **전체 영상·다시보기·업로드·클립**, **최신순·인기순**을 고르고, **받지 않은 영상만 선택**으로 이미 받은 영상을 제외할 수 있습니다.
-5. 다운로드가 완료된 영상은 **다운로드 목록**에서 바로 재생 가능합니다. 이전 실행의 작업·실패·취소 항목은 **다운로드 기록**에서 확인합니다.
-6. 취소·대기·종료 중단 작업은 다음 실행에 대기로 복원됩니다. **대기열 계속**으로 재개하면 보관한 부분부터 이어받습니다. 실패한 작업도 **재시도**로 이어받을 수 있습니다. 필요 없는 대기 항목은 **다운로드 목록에서 우클릭 → 목록에서 삭제**를 누릅니다. 기록과 완성된 영상은 유지하며, 보관한 미완성 조각은 기록에서 해당 작업을 지울 때 정리됩니다. 이미 받은 영상은 주소 형태가 달라도 **다시 다운로드**할지 확인합니다.
-7. 치지직 계정을 연결하려면 아래 **쿠키 파일 저장하기**를 따라 `chzzk.naver.com_cookies.txt`를 저장합니다. 앱의 **설정 → 치지직 계정 → 쿠키 파일 가져오기**에서 저장에 동의하고 이 파일을 선택한 뒤 **가져오고 연결**을 누릅니다. 로그인 확인 후 인증 쿠키 두 개만 암호화 저장하고 팔로잉 채널을 즐겨찾기에 추가합니다. 아이디·비밀번호 입력은 필요 없습니다.
-8. 다른 계정의 쿠키를 가져오면 새 프로필로 추가하고, 같은 계정은 쿠키를 갱신합니다. **설정 위의 프로필 사진·계정 이름**을 누르면 저장된 계정을 전환하고 **치지직 채널 열기·로그아웃·새 계정 추가**를 선택할 수 있습니다. 계정이 하나여도 같은 메뉴를 표시하며, **새 계정 추가**를 누르면 **브라우저 쿠키로 치지직 계정 연결** 창이 바로 열립니다. 저장에 동의한 뒤 다른 계정의 쿠키 파일을 선택해 연결하세요. 즐겨찾기와 순서는 계정마다 따로 보관하고 재실행해도 선택한 계정을 유지합니다. 사진이 없는 계정에는 기본 아이콘을 표시합니다.
+1. [최신 릴리스](https://github.com/deuxdoom/ChzzkDownloader/releases/latest)에서 ZIP을 내려받아 압축을 풀고, 폴더 안의 `ChzzkDownloader.exe`를 실행합니다.
+2. 첫 실행의 영상 도구 준비가 끝날 때까지 기다립니다. 창 하단에서 진행 상황을 확인하고, **설정**에서 저장 위치와 다운로드 옵션을 정합니다.
+3. 영상 주소를 붙여넣고 **다운로드**를 누릅니다. 여러 주소는 **다중 다운로드** 창에 한 줄씩 넣고, 채널에서 고르려면 **채널 즐겨찾기**를 엽니다.
+4. 완료한 영상은 목록에서 더블클릭해 엽니다. 이전 작업은 **다운로드 기록**에서 확인하고, 복원된 대기 작업은 **대기열 계속**으로 시작합니다.
 
-### 1.0.7의 새 기능 사용하기
+필요에 따라 다운로드 전에 다음 항목을 선택하세요.
 
-- **채팅 저장**: 다운로드 화면의 **받을 내용 → 채팅만 / 영상 + 채팅**을 선택한 뒤 치지직 다시보기 주소를 넣습니다. 채널 화면에서는 **선택한 영상 채팅 저장**을 누릅니다. 저장한 HTML을 브라우저에서 열고 닉네임을 누르면 그 사용자의 채팅만 볼 수 있으며, ↗는 그 사용자의 채널을 엽니다. 검색창에 채널 주소나 ID를 붙여 넣어도 찾을 수 있습니다.
-- **구간 다운로드**: **구간만 받기**를 켜고 시작·끝(예: `1:00:00` ~ `1:30:00`)을 입력한 뒤 주소를 추가합니다. 한 번 추가하면 체크가 풀립니다. 다중 주소에도 적용되며, 채널 화면에서 고른 영상에는 적용되지 않습니다. **영상 + 채팅**에서는 영상만 잘라 받고 채팅은 전체를 저장합니다.
-- **라이브 녹화**: 라이브 방송 주소를 넣고 다운로드를 시작합니다. 카드의 중지 버튼을 누르면 지금까지 녹화한 부분을 저장합니다. 라이브 녹화는 동시 다운로드 수에 포함되지 않으며, 재실행 복원·이어받기 대상이 아닙니다.
-- **파일 이름·폴더·속도**: **설정 → 저장 · 다운로드**에서 정합니다. 새로 추가한 작업부터 적용되며, 속도 제한은 라이브·구간 다운로드에는 적용되지 않을 수 있습니다.
-- **새 영상 알림·자동 다운로드**: **설정 → 프로그램 동작 → 즐겨찾기 채널의 새 영상을 30분마다 확인**을 켭니다(기본 꺼짐). 자동으로 받을 채널은 채널 화면에서 **새 영상 자동 다운로드**도 켜세요. 처음 확인한 시점의 기존 영상은 알리거나 자동으로 받지 않습니다.
-- **캐시 정리**: **설정 → 프로그램 동작 → 썸네일 캐시 → 캐시 비우기**에서 미리보기만 지울 수 있습니다. 기록과 저장 파일은 유지됩니다.
+- **구간만 받기**: 시작·끝을 입력합니다. 끝을 비우면 영상 끝까지 받으며, 한 번 주소를 추가하면 체크가 풀립니다. 채널 화면에서 고른 영상에는 적용되지 않습니다.
+- **받을 내용**: 영상·채팅만·영상 + 채팅을 고릅니다. 영상 + 채팅에서 구간을 지정하면 영상만 자르고 채팅은 전체를 저장합니다.
+- **라이브 녹화 중지**: 카드의 중지 버튼을 누르면 지금까지 녹화한 부분을 저장합니다.
 
-### 쿠키 파일 저장하기
+### 치지직 계정 연결 (선택)
+
+팔로잉 채널을 가져오거나 계정의 시청 권한이 필요한 영상을 받으려면 **설정 → 치지직 계정 → 쿠키 파일 가져오기**에서 연결합니다.
+
+<details>
+<summary>쿠키 파일 저장·연결 방법 보기</summary>
 
 1. 평소 치지직을 보는 브라우저에 [Get cookies.txt LOCALLY](https://chromewebstore.google.com/detail/get-cookiestxt-locally/cclelndahbckbenkjhflpdbgdldlbecc)를 설치합니다.
-2. 치지직에 로그인한 뒤 `메인 화면 https://chzzk.naver.com/` 을 열어 둡니다.
-3. **브라우저 주소창 옆에서 확장 프로그램 아이콘을 눌러** 여세요. 아래처럼 표시된 주소가 치지직인지 확인한 뒤 **왼쪽 첫 번째 Export 버튼만** 누르세요.
+2. 치지직에 로그인한 뒤 메인 화면 `https://chzzk.naver.com/`을 엽니다.
+3. 주소창 옆 확장 프로그램 아이콘을 누릅니다. 표시된 주소가 치지직인지 확인하고 **왼쪽 첫 번째 Export 버튼**을 누릅니다.
 
 ![치지직 메인 화면에서 확장 프로그램을 열고 왼쪽 첫 번째 Export를 누르는 화면](docs/img/chzzk-cookie-export.png)
 
-4. 쿠키 파일의 기본 저장명은 `chzzk.naver.com_cookies.txt`입니다. 다운로드 위치를 확인하고, 저장 창이 나오면 원하는 위치에 저장합니다.
-5. 치지직 다운로더 앱에서 **파일 선택 → 가져오고 연결** 순서로 진행합니다. 가져오기 창에서도 같은 이미지와 순서를 확인할 수 있습니다.
+4. 기본 파일명 `chzzk.naver.com_cookies.txt`로 저장된 위치를 확인합니다.
+5. 앱의 **쿠키 파일 가져오기**에서 저장에 동의하고, **파일 선택 → 가져오고 연결** 순서로 진행합니다.
+
+연결하면 팔로잉 채널을 즐겨찾기에 추가합니다. 여러 계정을 연결한 경우 사이드바의 프로필 사진·이름에서 계정을 전환할 수 있으며, 즐겨찾기와 순서는 계정별로 유지됩니다.
+
+</details>
 
 <a id="screenshots"></a>
 
@@ -130,46 +112,29 @@ TVer는 일본 VPN에 연결한 상태에서 다운로드해야 합니다.
 
 ## 📸 화면
 
-아래 화면은 **1.0.7 배포 EXE**에서 캡처한 실제 화면입니다. 영상 정보는 현재 공개 목록에서 가져왔고, 다운로드·녹화·저장 배지·새 영상 알림·제한 상태와 계정 이름·사진은 소개용 예시입니다. 실제 다운로드·녹화·계정 인증 결과를 뜻하지 않습니다.
+아래 이미지는 **1.0.8 배포 EXE**에서 캡처했습니다. 영상 목록은 공개 정보이며, 작업 상태·저장 배지·알림·제한 상태·계정 이름과 사진은 소개용 예시입니다. 실제 다운로드·녹화·계정 인증 결과를 뜻하지 않습니다.
 
-| 구간 다운로드·채팅 선택 | 라이브 녹화 |
+| 저장·다운로드 설정 | 채널 영상 선택 |
 | --- | --- |
-| ![구간 시작·끝과 받을 내용에서 영상 + 채팅을 선택한 화면](docs/img/app-input.png) | ![라이브 녹화 크기·경과 시간·남은 공간 안내 예시](docs/img/app-live.png) |
+| ![저장 위치·파일 이름·화질·속도 제한 설정](docs/img/app-settings.png) | ![채널의 영상 보기·정렬·선택과 저장 배지](docs/img/app-channel.png) |
 
-| 설정 | 채널 영상 |
+| 라이브 녹화 | 치지직 계정 전환 |
 | --- | --- |
-| ![파일 이름·채널별 폴더·속도 제한이 추가된 설정](docs/img/app-settings.png) | ![보기·정렬·영상과 채팅 저장 배지·선택한 영상 채팅 저장 버튼이 있는 채널 화면](docs/img/app-channel.png) |
-
-| 새 영상 확인·캐시 관리 | 채널 즐겨찾기 |
-| --- | --- |
-| ![새 영상 확인 설정과 썸네일 캐시 비우기](docs/img/app-settings-behavior.png) | ![저장 채널과 새 영상 개수 배지 예시](docs/img/app-favorites.png) |
-
-| 계정 전환 | 쿠키로 계정 연결 |
-| --- | --- |
-| ![설정 위 프로필에서 연 저장된 계정 메뉴와 치지직 계정 설정 예시](docs/img/app-account.png) | ![저장 동의 후 쿠키 파일을 선택하는 계정 연결 창](docs/img/app-cookie.png) |
-
-| 도구 준비 | 연령 제한 표시 |
-| --- | --- |
-| ![메인 하단의 도구 다운로드 상태와 진행률](docs/img/app-tools.png) | ![썸네일 오른쪽 위의 19세 배지 예시](docs/img/app-channel-age.png) |
+| ![라이브 녹화 크기·경과 시간·남은 공간 안내 예시](docs/img/app-live.png) | ![사이드바 프로필에서 연 저장된 계정 메뉴 예시](docs/img/app-account.png) |
 
 <a id="cautions"></a>
 
 <a id="-주의-사항"></a>
 
-## ⚠ 주의 사항
+## ⚠ 알아 두세요
 
-- 19세 영상은 본인·성인 인증된 네이버 계정으로 로그인해야 하며, 구독자 영상 등은 해당 계정의 시청 권한이 필요합니다. 인증·권한이 없는 영상은 받을 수 없습니다.
-- **가져온 로그인 쿠키는 내 PC에만 암호화 저장하며, 개발자나 별도 수집 서버로 전송하지 않습니다.** 인증 쿠키는 네이버·치지직 인증과 영상 조회에 전달됩니다. 앱에서는 아이디·비밀번호를 입력받거나 저장하지 않습니다.
-- 로그인 저장은 선택 사항입니다. 동의 후 가져온 로그인 쿠키는 `.auth`폴더에 Windows 사용자 계정에 묶여 암호화 저장됩니다. 앱 재실행 후에도 저장은 유지되지만 쿠키 만료나 네이버의 로그인 해제 시 다시 가져와야 하며, 영구 로그인을 보장하지 않습니다. 설정의 **저장 정보 삭제**로 지울 수 있습니다.
-- **로그아웃·저장 정보 삭제**는 현재 계정의 쿠키만 지웁니다. 다른 저장 계정이 있으면 그 계정으로 전환하며, 즐겨찾기·영상은 유지합니다. 첫 연결 계정은 기존 공용 즐겨찾기를 이어받고, 이후 계정은 별도 목록을 사용합니다.
-- 쿠키 파일 가져오기는 `NID_AUT`·`NID_SES`만 저장하며, 파일의 다른 쿠키와 경로는 저장하지 않습니다. 저장한 쿠키 파일은 암호화되지 않고 프로그램이 수정·삭제하지 않으므로 연결 후 필요 없는 쿠키 파일은 직접 삭제하세요.
-- TVer 영상은 일본 VPN에 연결한 뒤 받아야 하며, 다운로드가 끝날 때까지 VPN 연결을 유지해야 합니다.
-- 채팅 저장은 **치지직 다시보기만** 지원하며 라이브·클립·다른 사이트의 채팅은 받을 수 없습니다. 구독·후원·가림 상태는 저장하지만 팔로우 여부는 제공되지 않습니다. 19세·구독자 전용 다시보기의 채팅도 연결한 계정의 시청 권한이 필요합니다.
-- 일반 영상의 저장 공간 확인은 크기를 알 수 있을 때만 동작합니다. 구간 다운로드는 앞뒤로 몇 초 차이가 날 수 있고 이어받기를 지원하지 않습니다.
-- **라이브 녹화는 방송이 끝나거나 중지할 때까지 계속 저장하므로 저장 공간을 넉넉히 확보하세요.** 치지직 1080p60 기준 시간당 약 3.8GB가 쌓여 10시간이면 약 38GB가 필요하고, 녹화를 마친 뒤 MP4로 정리하는 동안 같은 크기의 공간이 잠시 더 필요합니다. 녹화 중에는 남은 공간으로 몇 시간을 더 녹화할 수 있는지 표시되며, 남은 공간이 1GB 아래로 줄면 녹화를 멈추고 지금까지 녹화한 부분을 저장합니다(MP4로 정리할 공간이 없으면 `.ts` 파일로 남습니다). 녹화는 주소를 넣은 시점부터 시작하므로, 방송 전체가 필요하면 방송이 끝난 뒤 다시보기를 받으세요.
-- 창 크기는 화면과 Windows 배율에 맞춰 자동으로 정해집니다. 직접 크기를 조절하거나 최대화할 수 없으며, 작은 화면에서는 카드와 설정 내용을 스크롤로 볼 수 있습니다.
-- 받은 영상은 **개인 소장 용도** 로만 사용하고, 저작권과 플랫폼 이용 약관을 지켜 주세요.
-- 이 다운로더는 NAVER·치지직의 공식 프로그램이 아닙니다.
+- **계정 권한**: 19세 영상은 본인·성인 인증된 네이버 계정이, 구독자 전용 영상은 해당 계정의 시청 권한이 필요합니다.
+- **쿠키 보관**: **로그인 쿠키는 내 PC에만 암호화 저장하며, 개발자나 별도 수집 서버로 전송하지 않습니다.** 저장 정보는 Windows 사용자 계정에 묶이며, 인증에 필요한 쿠키는 네이버·치지직에 전달됩니다. 앱은 아이디·비밀번호를 입력받거나 저장하지 않으며, 쿠키가 만료되면 다시 가져와야 합니다.
+- **연결 해제·쿠키 파일**: 로그아웃이나 저장 정보 삭제는 현재 계정의 쿠키만 지우고 즐겨찾기·영상을 유지합니다. 가져온 파일에서는 `NID_AUT`·`NID_SES` 두 쿠키만 골라 저장합니다. 원래 쿠키 파일은 암호화되지 않고 앱이 수정·삭제하지 않으므로, 연결 후 필요 없는 쿠키 파일은 직접 삭제하세요.
+- **TVer**: 일본 VPN에 연결한 뒤 다운로드를 시작하고, 완료될 때까지 연결을 유지해야 합니다.
+- **채팅·구간 저장**: 채팅은 치지직 다시보기만 지원합니다. 구간 영상은 재인코딩 없이 잘라 앞뒤로 몇 초 차이가 날 수 있고 이어받기를 지원하지 않습니다. 속도 제한은 라이브·구간 다운로드에 적용되지 않을 수 있습니다.
+- **라이브 저장 공간**: 충분한 여유 공간을 확보하세요. 치지직 1080p60은 시간당 약 3.8GB, 10시간이면 약 38GB가 필요하며 MP4로 정리할 때 같은 크기의 공간이 잠시 더 필요합니다. 남은 공간이 1GB 아래로 줄면 녹화를 멈추고 저장하며, 정리 공간이 부족하면 `.ts`로 남습니다. 녹화는 주소를 넣은 시점부터 시작하므로 방송 전체가 필요하면 종료 후 다시보기를 받으세요.
+- 받은 영상은 개인 소장 용도로만 사용하고 저작권과 플랫폼 이용 약관을 지켜 주세요. 이 프로그램은 NAVER·치지직의 공식 프로그램이 아닙니다.
 
 <a id="backup"></a>
 
@@ -177,18 +142,14 @@ TVer는 일본 VPN에 연결한 상태에서 다운로드해야 합니다.
 
 ## 💾 설정 및 백업
 
-EXE 옆의 `settings.json`(설정), `history.json`(다운로드 기록), `favorites.json`(채널 즐겨찾기)을 백업하세요. `thumbnail-cache\`는 지워도 다시 만들어집니다. 업데이트는 이 파일들을 바꾸지 않습니다.
-계정을 연결했다면 `favorites-profiles\`(계정별 즐겨찾기) 폴더도 백업하세요. 계정에서 로그아웃해도 이 목록은 유지됩니다.
-이미 받은 영상 표시·중복 확인을 유지하려면 `download-index.json`, 새 영상 확인·자동 다운로드 설정을 유지하려면 `channel-watch.json`도 함께 백업하세요. 중단된 영상을 이어받으려면 원래 저장 위치의 `.incomplete\` 폴더와 기록을 함께 보관해야 합니다.
+프로그램 폴더의 다음 항목을 백업하면 설정·기록·즐겨찾기를 유지할 수 있습니다. 프로그램 업데이트는 이 항목들을 보존합니다.
 
-로그인을 저장했다면 `.auth\naver-session.dat`도 같은 Windows 계정에서 유지할 수 있습니다. 다른 PC·Windows 계정에서는 이 파일을 쓸 수 없으므로 쿠키 파일을 다시 가져오세요. `.auth\runtime\`의 임시 쿠키는 백업하지 마세요.
+- `settings.json`, `history.json`: 설정·다운로드 기록
+- `favorites.json`, `favorites-profiles\`: 공용·계정별 즐겨찾기
+- `download-index.json`, `channel-watch.json`: 받은 영상 표시·새 영상 확인 상태
 
-<a id="support"></a>
-
-## 🤝 문의 및 지원
-
-- **버그 제보 및 기능 제안:** [GitHub Issues](https://github.com/deuxdoom/ChzzkDownloader/issues)
-- **버전별 변경 내용:** [변경 기록](CHANGELOG.md) · [전체 릴리스](https://github.com/deuxdoom/ChzzkDownloader/releases)
+이어받을 영상은 **원래 저장 위치의 `.incomplete\` 폴더**와 기록을 함께 보관하세요. `thumbnail-cache\`는 미리보기 캐시이므로 백업하지 않아도 됩니다.
+로그인 정보인 `.auth\naver-session.dat`는 같은 Windows 계정에서만 사용할 수 있으며, 다른 PC·Windows 계정에서는 쿠키를 다시 가져와야 합니다. `.auth\runtime\`의 임시 쿠키는 백업하지 마세요.
 
 <a id="license"></a>
 
@@ -198,17 +159,11 @@ EXE 옆의 `settings.json`(설정), `history.json`(다운로드 기록), `favori
 
 **Copyright © 2026 SAKURA. All rights reserved.**
 
-| 항목 | 내용 |
-| --- | --- |
-| 배포 형태 | 프리웨어 (개인·비상업적 사용) |
-| 소스 코드 | 비공개 |
+프로그램과 자체 제작 자료는 **개인의 비상업적 이용만 허용**합니다. 사전 허락 없는 상업적 이용이나 무단 재배포(수정본 포함)는 금지합니다. 자세한 조건은 [LICENSE](LICENSE)를 확인하세요.
+이 저장소는 배포·소개용이며 프로그램 소스 코드는 공개하지 않습니다. 소개할 때는 공식 홈페이지나 릴리스 링크를 공유해 주세요.
 
-본 저장소는 **ChzzkDownloader의 배포 및 소개를 위한 공간**입니다. 프로젝트 자체 소스 코드는 공개하지 않으며, 프로그램과 자체 제작 자료에는 [프로젝트 이용 조건](LICENSE)이 적용됩니다.
+FFmpeg·yt-dlp·PySide6·Pretendard·JetBrains Mono·Fluent UI System Icons·Octicons 등 외부 구성 요소에는 각각의 라이선스가 적용되며, 프로젝트의 이용 제한은 해당 라이선스가 부여하는 권리를 제한하지 않습니다.
 
-- **개인 이용**: 개인의 비상업적 용도로 사용할 수 있습니다.
-- **상업적 이용 금지**: 제작자의 사전 허락 없이 판매·유료 서비스 제공 등 영리 목적으로 이용할 수 없습니다.
-- **무단 재배포 금지**: 제작자의 사전 허락 없이 프로그램·배포 파일·자체 제작 자료를 재업로드하거나, 수정한 버전을 배포할 수 없습니다. 소개할 때는 공식 홈페이지나 릴리스 링크를 공유해 주세요.
+<a id="support"></a>
 
-### 제3자 구성 요소
-
-사용하는 FFmpeg·yt-dlp(첫 실행 때 받음)·PySide6·Pretendard·JetBrains Mono·아이콘(Fluent UI System Icons, Octicons) 등 외부 구성요소에는 각각의 라이선스가 적용되며, 위 제한은 해당 라이선스가 부여하는 권리를 제한하지 않습니다.
+문의·제안은 [GitHub Issues](https://github.com/deuxdoom/ChzzkDownloader/issues), 버전별 내역은 [변경 기록](CHANGELOG.md)·[전체 릴리스](https://github.com/deuxdoom/ChzzkDownloader/releases)에서 확인하세요.

diff --git a/CHANGELOG.md b/CHANGELOG.md
@@ -4,6 +4,33 @@
 아래 날짜는 로컬 빌드 기준입니다. `[Unreleased]`에는 구현을 마쳤지만 아직 정식 배포하지 않은 변경 사항을 안내합니다.
 
 
+## [1.0.8] - 2026-11-03
+
+### Added
+
+- 설정의 ‘치지직 CDN’에 글로벌 CDN(Akamai) 선택을 베타 기능으로 추가했습니다. 라이브 녹화에서 한국 CDN의 일부 조각이 누락되는 경우 다른 경로로 녹화할 수 있습니다. 선택은 새로 넣는 작업에 저장되며, Akamai 연결에 실패하면 기본 CDN으로 바꾸라는 안내가 표시됩니다. 현재 전환 기능은 라이브에 적용되며, 다시보기와 클립은 제공된 CDN을 사용합니다.
+
+### Changed
+
+- 즐겨찾기 채널의 새 영상 확인 간격을 고정 30분에서 직접 입력하는 1~24시간으로 변경했습니다. 입력칸에는 숫자만 입력하며, ‘시간 마다’ 문구는 입력칸 밖에 표시됩니다. 기본값은 1시간이고 첫 확인은 시작 1분 뒤에 진행됩니다. 간격을 바꾸면 다음 확인부터 반영되고 다시 실행해도 유지됩니다.
+- 메인 창의 가로·세로를 각각 20% 늘려 1272×888 논리 픽셀로 변경했습니다. 구간 다운로드 입력란이 있어도 기본 화면에서 다운로드 카드 3개를 볼 수 있으며, 작은 화면에 맞춰 창을 줄이는 동작은 유지됩니다.
+- 치지직 다시보기의 대기 영상 정보를 미리 확인할 때 초기화 조각 검사용 재생목록 요청을 생략하도록 개선했습니다. 다운로드에서 이미 읽은 재생목록은 구간 처리와 실제 전송에도 재사용합니다.
+
+### Removed
+
+- 더 이상 사용하지 않는 사이트별 전용 추출기와 관련 구성 요소를 제거했습니다.
+
+### Fixed
+
+- 다운로드·기록 카드와 취소·녹화 중지 확인창에서 작업 번호 대신 파일 제목으로 대상을 알아볼 수 있도록 수정했습니다. 긴 제목은 화면 폭에 맞춰 줄이고, 취소한 작업을 다시 받을 때도 이전 제목을 바로 표시합니다.
+- 다운로드 목록과 기록이 비어 있을 때 안내 영역이 위쪽에만 표시되던 문제를 수정했습니다. 창 크기와 로그 패널의 표시 상태에 맞춰 목록 전체 높이를 채웁니다.
+- ‘닫기 버튼을 누르면 트레이로’를 켜고 창을 닫은 뒤 트레이에서 ‘프로그램 종료’를 선택하면, 창만 정리되고 프로세스가 남아 프로그램 파일을 교체할 수 없던 문제를 수정했습니다. 진행 중인 작업과 도구 준비를 정리한 뒤 프로세스도 종료됩니다.
+- 다운로드 카드의 취소 버튼이 체크박스처럼 보여 실수로 작업을 취소하기 쉬웠던 문제를 수정했습니다. ‘대기 취소’·‘취소’·‘녹화 중지’ 글자로 용도를 구분하고, 확인창에서 동의한 뒤에만 취소하거나 녹화를 중지합니다. 취소한 작업은 다운로드 기록에 남습니다.
+- 다운로드·다운로드 기록·채널 즐겨찾기·설정 화면에서 상단 제목과 안내 문구의 위치가 조금씩 달랐던 문제를 수정했습니다.
+- 새 영상 확인을 끈 뒤 이전에 시작한 조회 결과가 도착해 알림이 표시될 수 있던 문제를 수정했습니다.
+
+---
+
 ## [1.0.7] - 2026-11-02
 
 ### Added
